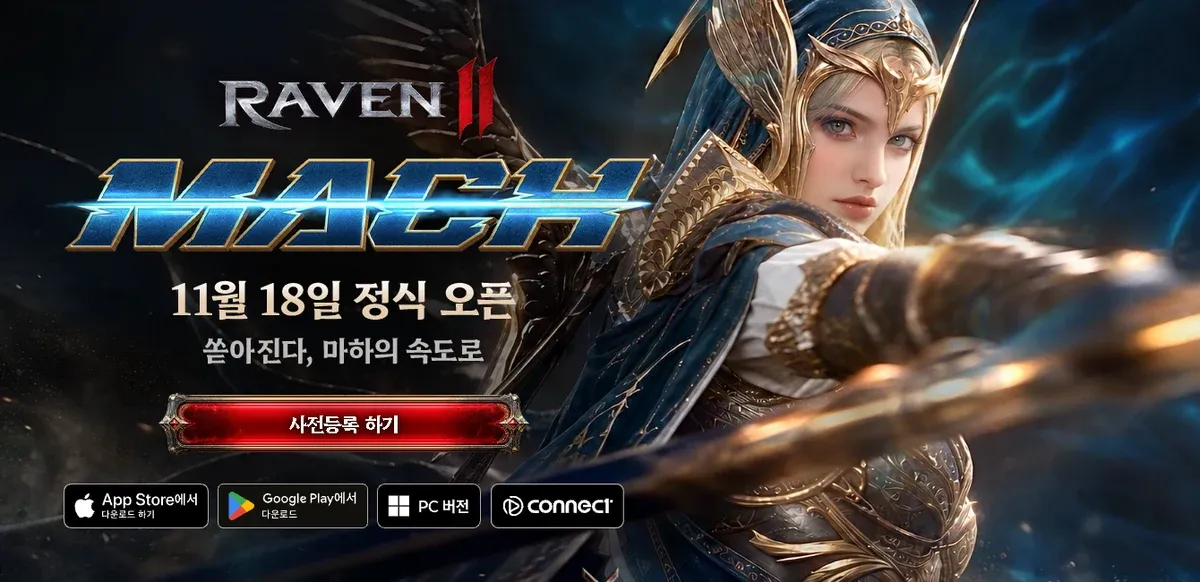
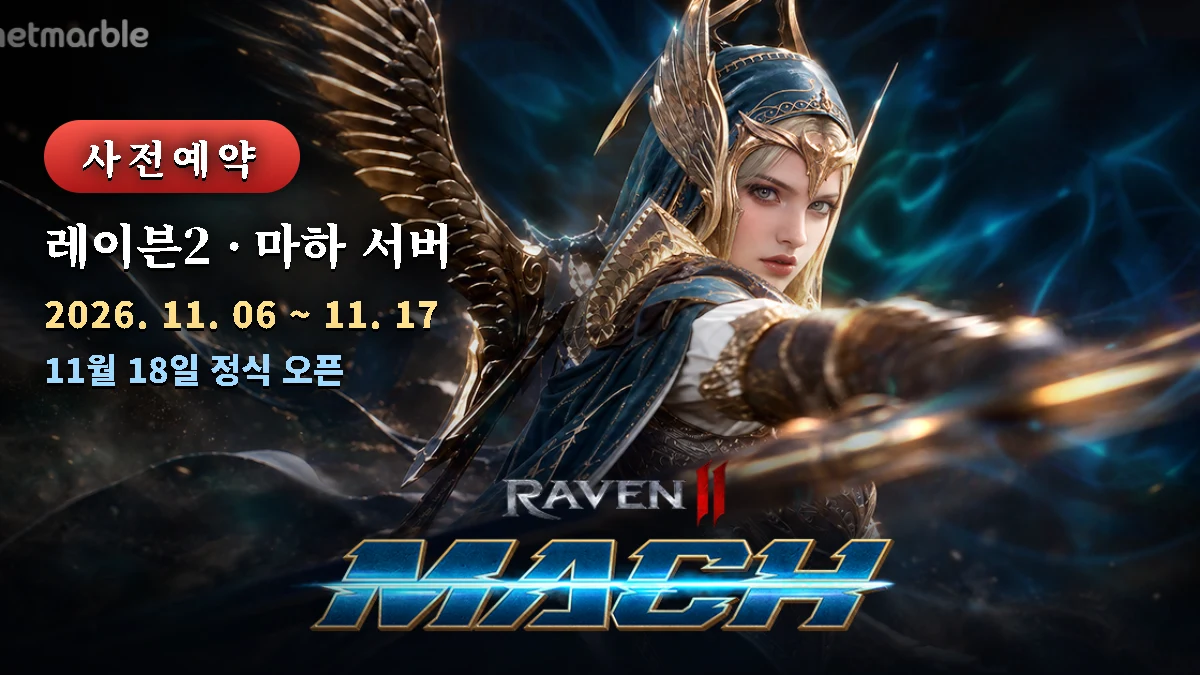
배너: 솔·레이븐2 공식 메인 이미지로 16:9 꽉 채우고 사전예약·날짜 문구 재작성

diff --git a/index.html b/index.html
@@ -299,7 +299,7 @@
               <a href="https://open.kakao.com/o/gdQUrDrh" target="_blank" rel="noopener" class="hero-banner-slide is-active"><img src="banner/ad-inquiry.jpg" alt="원격임대 광고·제휴 문의 - 나노원격임대 카카오톡" width="1024" height="572"></a>
               <a href="https://temppal.nexon.com/" target="_blank" rel="noopener" class="hero-banner-slide"><img src="banner/overgeared.jpg" alt="템빨: 오버기어드 원격임대 · 원격PC 임대 - 나노원격임대" width="650" height="365"></a>
               <a href="https://chosunclassic.co.kr/#contents2" target="_blank" rel="noopener" class="hero-banner-slide"><img src="banner/joseon-hyeopgaekjeon-classic-prereg.webp" alt="조선협객전 클래식 신규 월드 여주 사전예약 11월 12일까지 원격임대 · 원격PC 임대 - 나노원격임대" width="1200" height="675"></a>
-              <a href="https://raven2.netmarble.com/ko" target="_blank" rel="noopener" class="hero-banner-slide"><img src="banner/raven2-mach-prereg.webp" alt="레이븐2 마하 서버 사전등록 11월 18일 정식 오픈 원격임대 · 원격PC 임대 - 나노원격임대" width="1200" height="582"></a>
+              <a href="https://raven2.netmarble.com/ko" target="_blank" rel="noopener" class="hero-banner-slide"><img src="banner/raven2-mach-prereg.webp" alt="레이븐2 마하 서버 사전예약 11월 18일 정식 오픈 원격임대 · 원격PC 임대 - 나노원격임대" width="1200" height="582"></a>
               <a href="https://sol.netmarble.com/infinity" target="_blank" rel="noopener" class="hero-banner-slide"><img src="banner/sol-enchant-infinity-prereg.webp" alt="솔: 인챈트 신규 서버 인피니티 사전예약 12월 2일 오픈 원격임대 · 원격PC 임대 - 나노원격임대" width="1200" height="675"></a>
               <a href="https://cheonsangbim2.sesisoft.com/" target="_blank" rel="noopener" class="hero-banner-slide"><img src="banner/cheonsangbi-m2-prereg.webp" alt="천상비M2 사전예약 11월 25일까지 원격임대 · 원격PC 임대 - 나노원격임대" width="1200" height="675"></a>
             </div>
